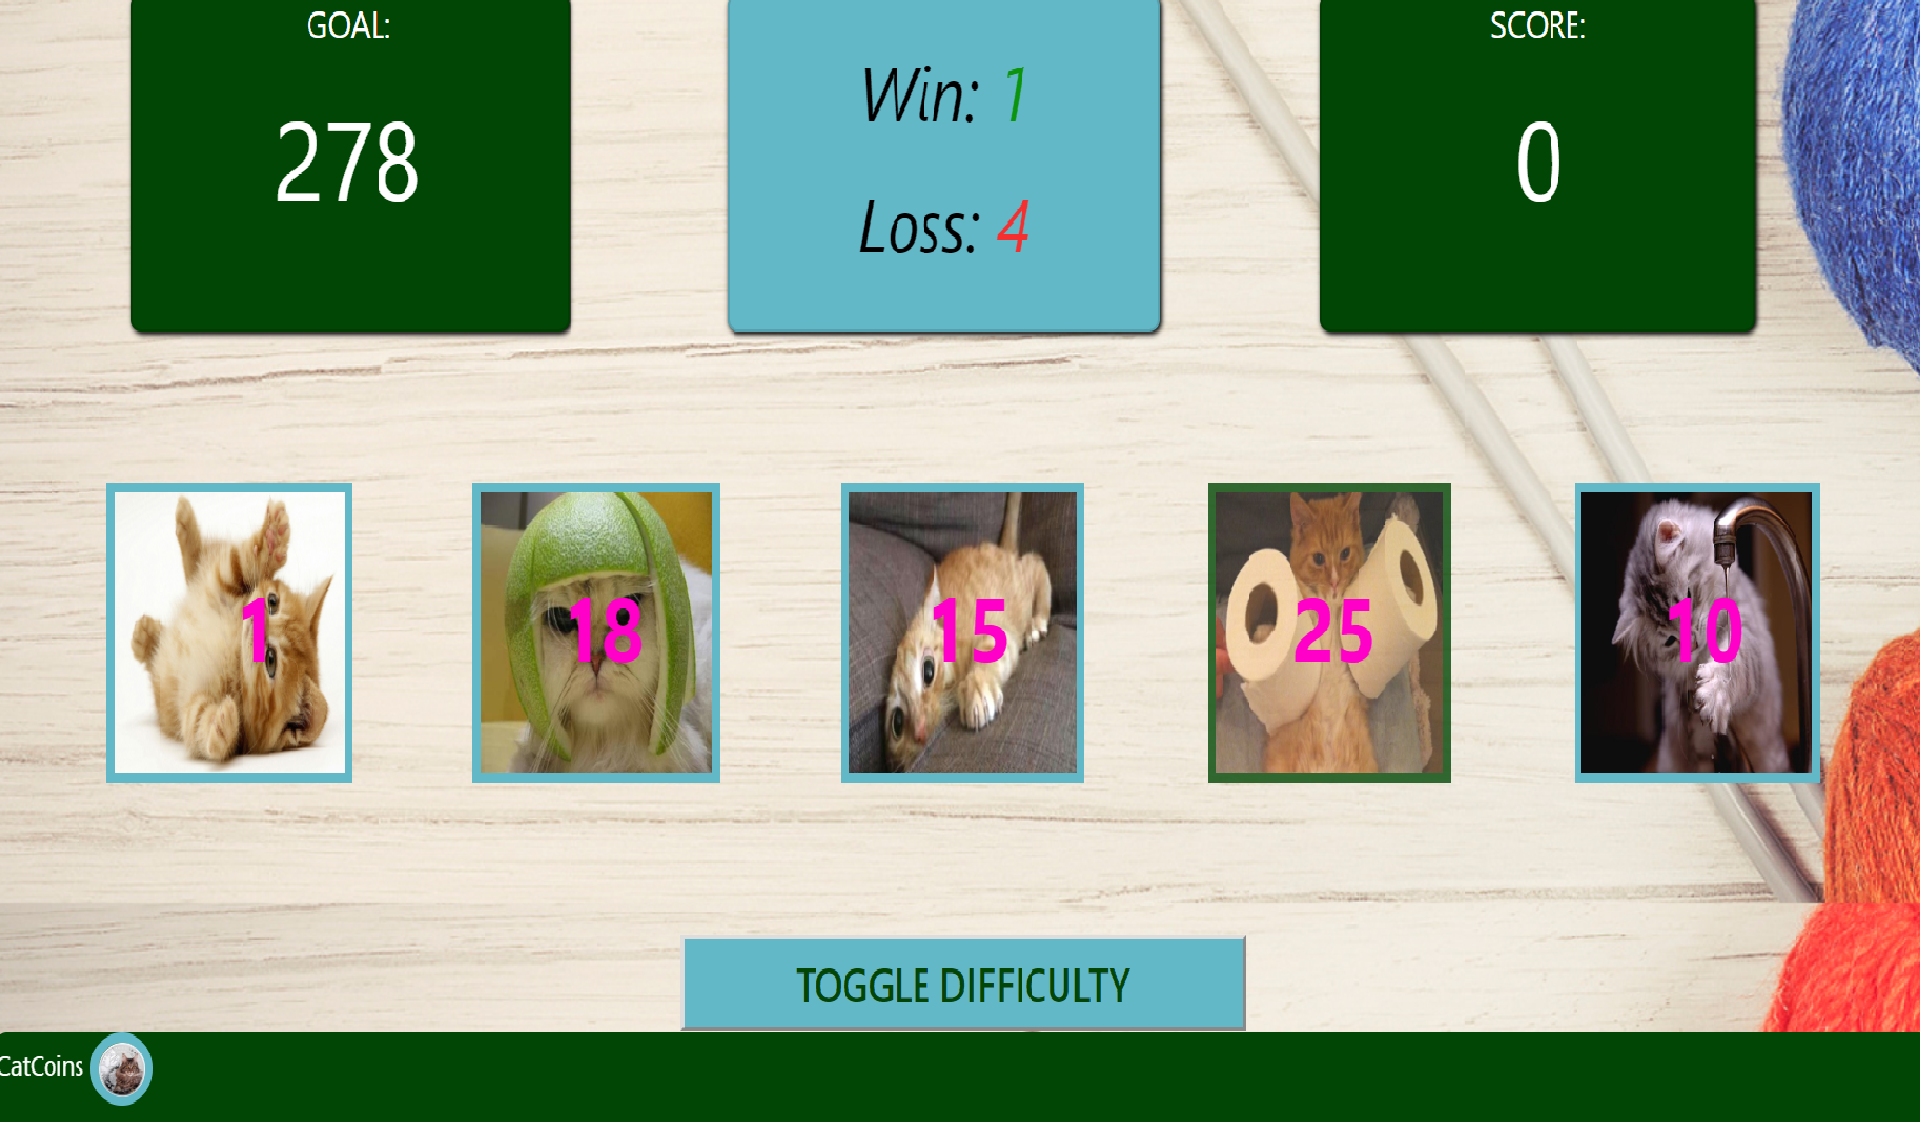
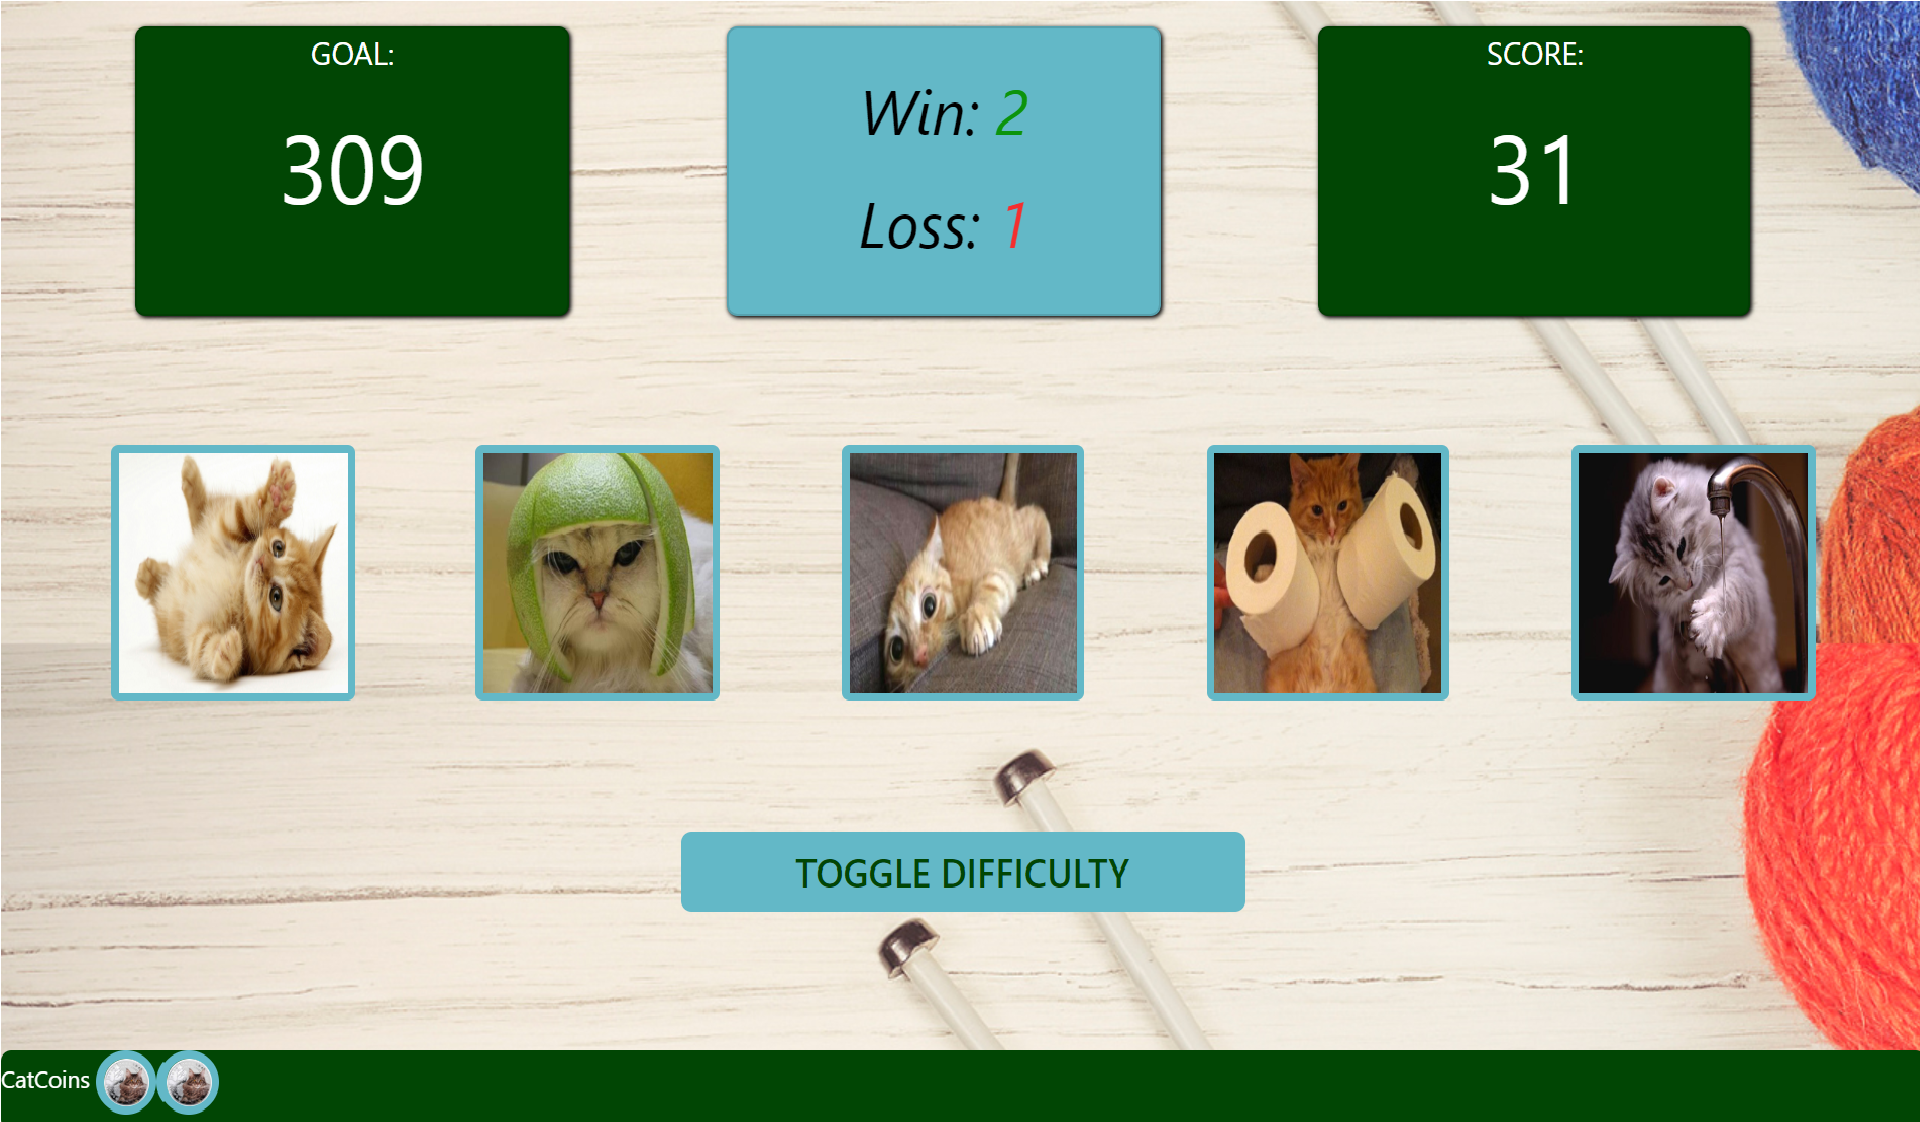
instructions edit. fixed values

diff --git a/index.html b/index.html
@@ -32,14 +32,17 @@
         <div class=" row justify-content-center">
             <div class="col-md-9">
                 <div id="instructions"  class="row card-blue card-border">
-                    <p>
+                    <p class="justify">
                         You will be given a Target Number at the start of the game.There are 5 kitties below. By clicking a kitty, you will add a
                         specific number of points to your total score. Each time you win or lose, the numbers that the cats
                         increment by will change. EACH TIME YOU WIN, YOU WILL RECIEVE A CAT COIN !!! You win your game by
                         matching the number generated by the computer. You will lose a game if your number goes above that
                         value. The value of each kitty is hidden. If you are playing on hard mode, this value will not display.
                         To toggle modes, click the button. Each time the game starts, the value of the kitties will be redefined.
-                        GOOD LUCK !!!!!
+                        
+                    </p><p>As for the values: The playful kitty and couch kitty will always have an odd value. Melon Kitty's 
+                        value is always even. As a general rule, values of the sink kitty are the highest, while values of the 
+                        playful kitty are the lowest. GOOD LUCK !!!!!
                     </p>
                 </div>
             </div>

diff --git a/assets/javascript/app.js b/assets/javascript/app.js
@@ -48,8 +48,8 @@ $(document).ready(() => {
     // for generating random numbers
     regenerate = () => {
         varTotal = Math.floor(Math.random() * 120 + 250);
-        valSurprise = ((Math.floor(Math.random() * 5 + 1) * 2) + 1);
-        valMelon = (Math.floor(Math.random() * 5 + 4) * 2);
+        valSurprise = ((Math.floor(Math.random() * 4) * 2) + 1);
+        valMelon = (Math.floor(Math.random() * 5 + 2) * 2);
         valCouch = ((Math.floor(Math.random() * 5 + 5) * 2) + 1);
         valtp = Math.floor(Math.random() * 7 + 15);
         valWater = Math.floor(Math.random() * 10 + 23);

diff --git a/assets/css/style.css b/assets/css/style.css
@@ -17,6 +17,8 @@ button {
     font-weight: 600;
     font-size: 2.4rem;
     margin-bottom: 135px;
+    border-color: transparent;
+    border-radius: 7px;
 }
 
 button:hover {
@@ -30,6 +32,7 @@ img {
     width: 16rem;
     height: 16rem;
     border: rgb(99, 184, 199) 5px solid;
+    border-radius: 5px;
     /* border: rgb(12, 32, 122, .3) 6px solid; */
 }
 
@@ -143,6 +146,11 @@ img:hover{
 
 #loss {
     color: rgb(245, 47, 47);
+}
+
+#instructions {
+
+        text-align: justify;
 }
 
 #win {
